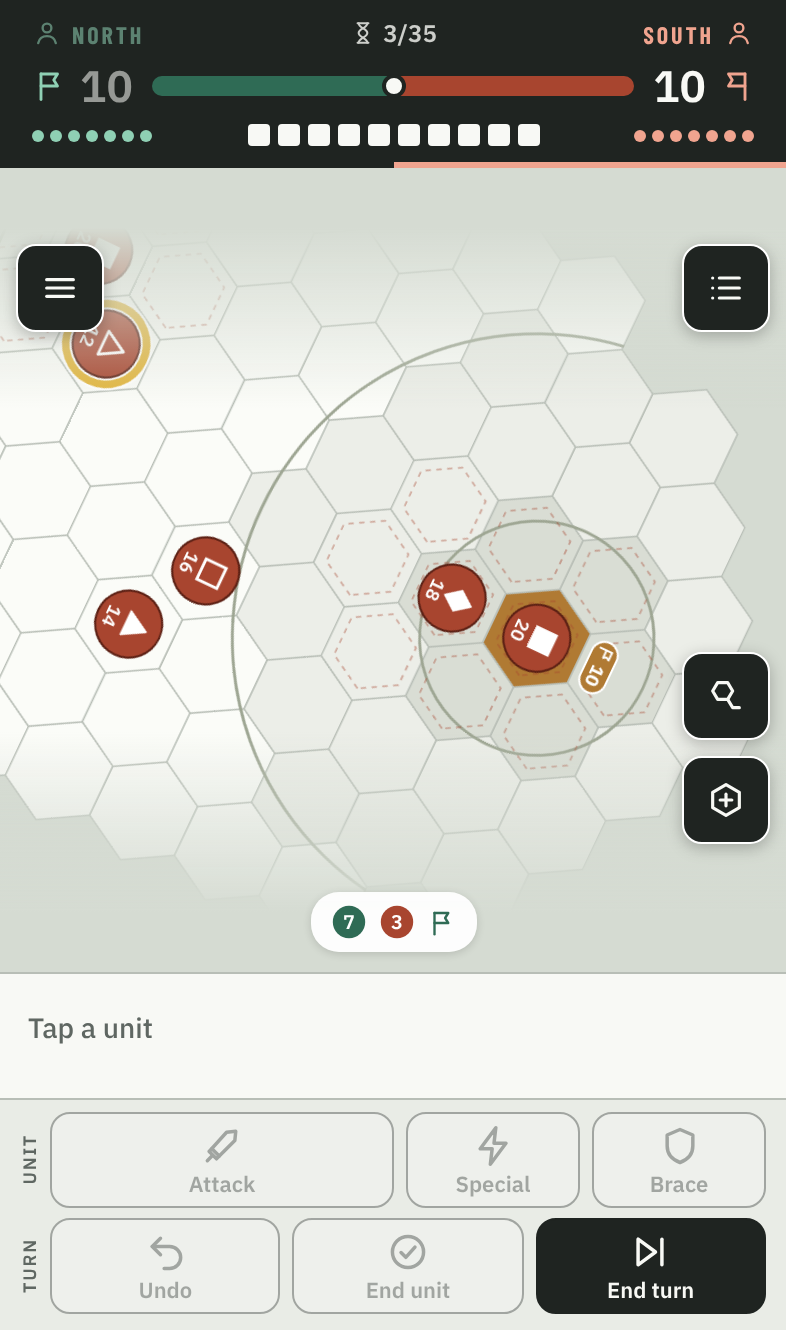
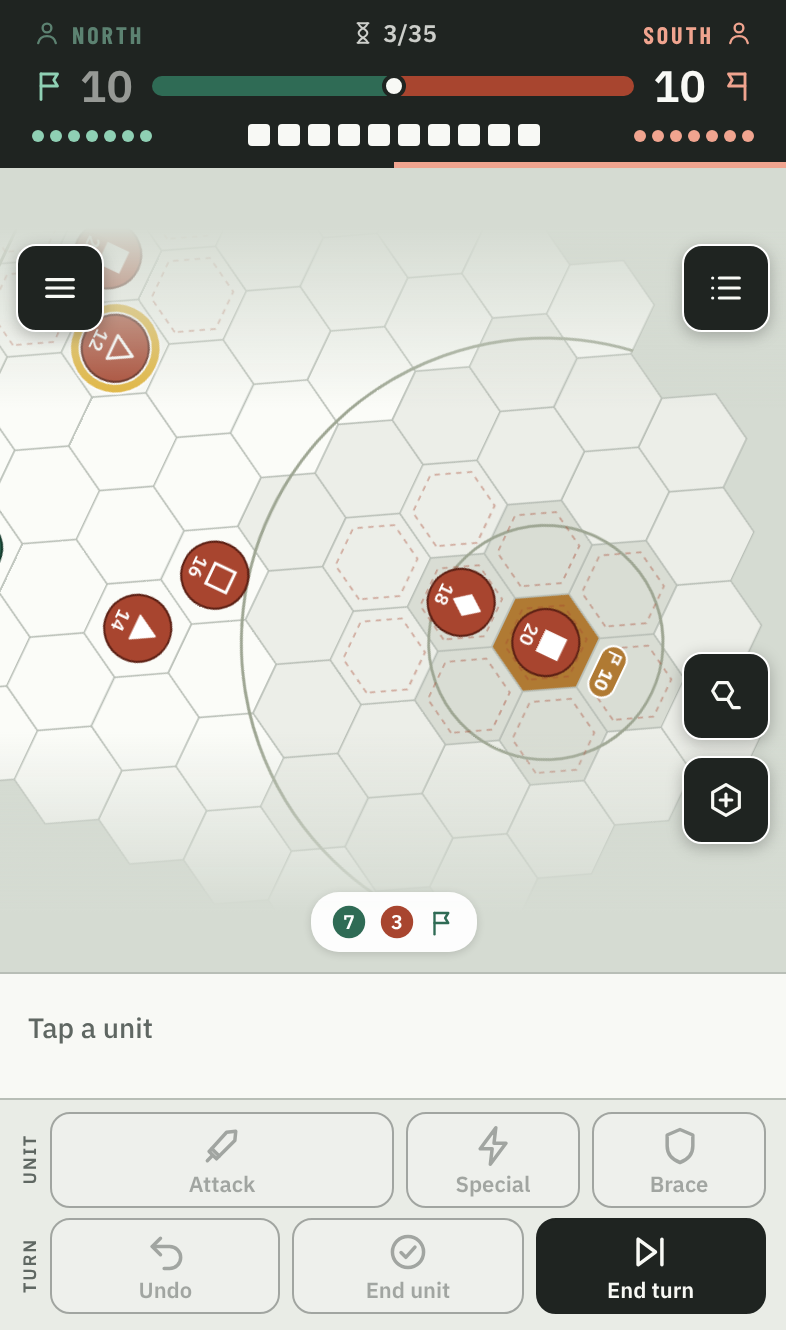
Brief 018 second review: zoom in to 100 px, desktop match log panel, more checks
Close zoom is 100 px hexes on every format. On desktop the match log is a panel on
the field's left (docked at 1200 px and wider with a Hide button, over the field
below that); the side column's Recent list is removed (F018-6 for a lasting design).
New checks: hot-seat South deploy view, scroll then wheel-zoom.

Claude-Session: https://claude.ai/code/session_01NQibGU52PCpshR1GvwUZXk

diff --git a/board/app.js b/board/app.js
@@ -1059,10 +1059,9 @@
   // ---------- Field zoom, gestures, hot-seat views and the turn cue (Brief 018, Approved UI v4) ----------
   /* Zoom is k, screen px per field unit (a hex is 2R = 60 units wide, so k = 1 is "close", 60 px hexes). ui.zoom null
      means "far" (fill the width on a phone, the whole field on desktop) and follows the screen size. */
-  // The Editor, 22 Nov (review of #54): "zoom in" goes nearer. Close = 1.5 × far, at least 60 px and at most 120 px
-  // hexes (7v7 on a 393 px phone: 81 px; desktop 7v7: 108 px; 13v13 on a phone: 60 px). Pinch reaches 120 px.
-  const CLOSE_X = 1.5, K_CLOSE_MIN = 60 / (2 * R), K_MAX = 120 / (2 * R);
-  const kClose = () => Math.max(K_CLOSE_MIN, Math.min(K_MAX, CLOSE_X * kFar()));
+  // The Editor, 22 Nov (second review of #54): "zoom in" goes to 100 px hexes on every format and screen. Pinch reaches 120 px.
+  const K_CLOSE = 100 / (2 * R), K_MAX = 120 / (2 * R);
+  const kClose = () => K_CLOSE;
   const viewBox = () => { const w = $("fieldwrap"); return { w: w.clientWidth, h: w.clientHeight }; };
   function kFar() {
     const v = viewBox();
@@ -2027,19 +2026,41 @@
   }
   function logHtml(st) { return `<div class="lg">${logBar(st)}<div class="lg-rows">${logRowsHtml(st)}</div></div>`; }
   /** Phone: the field area swaps for the log; the top bar, tag and action panel stay. Desktop: the Recent list. */
+  /* Desktop (the Editor, 22 Nov, review of #54; F018-6 for a lasting design): the log is a panel on the field's left.
+     1200 px and wider it sits beside the field, open unless the player collapsed it (remembered on this device);
+     narrower it starts collapsed and opens over the field. Phone (under 900 px): the field area swaps for the log. */
+  const LOG_DOCK = 1200;
+  const logDocked = () => window.innerWidth >= LOG_DOCK;
+  function logPanelOpen() { return logDocked() ? Store.local("logPanel") !== false : !!App.ui.logOverlay; }
+  function toggleLog() {
+    if (!wide()) { App.ui.logOpen = !App.ui.logOpen; renderLog(); if (App.ui.logOpen) $("logview").scrollTop = 0; else requestAnimationFrame(updateEdges); return; }
+    if (logDocked()) Store.local("logPanel", !logPanelOpen()); else App.ui.logOverlay = !App.ui.logOverlay;
+    render();
+  }
   function renderLog() {
-    const st = App.st, ui = App.ui, el = $("logview"), b = $("logbtn");
-    const on = !!ui.logOpen;   // phone and desktop (the Editor, 22 Nov: the log button on desktop too)
-    $("view-play").classList.toggle("log-open", on);
-    el.hidden = !on;
-    if (b) { const want = on ? "field" : "log"; if (b.dataset.mode !== want) { b.dataset.mode = want; b.innerHTML = ic(on ? "showField" : "list", 20); b.setAttribute("aria-label", on ? "Show field" : "Show match log"); } }
+    const st = App.st, ui = App.ui, el = $("logview"), side = $("logside"), b = $("logbtn"), vp = $("view-play");
+    const desk = wide(), on = !desk && !!ui.logOpen, panel = desk && logPanelOpen();
+    vp.classList.toggle("log-open", on);
+    vp.classList.toggle("log-docked", panel && logDocked());
+    vp.classList.toggle("log-over", panel && !logDocked());
+    el.hidden = !on; side.hidden = !panel;
+    if (b) {
+      const fieldMode = on || (panel && !logDocked()), want = fieldMode ? "field" : "log";
+      b.hidden = desk && panel && logDocked();   // docked: the panel has its own Hide button
+      if (b.dataset.mode !== want) { b.dataset.mode = want; b.innerHTML = ic(fieldMode ? "showField" : "list", 20); b.setAttribute("aria-label", fieldMode ? (desk ? "Hide match log" : "Show field") : "Show match log"); }
+    }
     if (on) el.innerHTML = logHtml(st);
+    if (panel) {
+      const old = side.querySelector(".ls-scroll"), keep = old ? old.scrollTop : 0;
+      side.innerHTML = `<button type="button" class="fbtn lg-hide" data-act="log" aria-label="Hide match log">${ic("back", 20)}</button><div class="ls-scroll">${logHtml(st)}</div>`;
+      side.querySelector(".ls-scroll").scrollTop = keep;
+    }
   }
 
   // ---------- Drawing: side column (desktop) ----------
   function renderSide() {
     const st = App.st, el = $("roster");
-    if (st.phase === "deploy") { el.innerHTML = `<h3>Units</h3><p class="note">Shown once both sides have deployed.</p>`; $("recent").innerHTML = wide() ? logHtml(st) : ""; return; }
+    if (st.phase === "deploy") { el.innerHTML = `<h3>Units</h3><p class="note">Shown once both sides have deployed.</p>`; return; }
     let h = `<h3>Units</h3><table><tbody>`;
     for (const t of ["N", "S"]) {
       h += `<tr class="teamhead" style="color:${teamColor(t)}"><td colspan="4">${esc(st.names[t])}</td></tr>`;
@@ -2050,9 +2071,7 @@
       }
     }
     el.innerHTML = h + `</tbody></table>`;
-    // Brief 018 §10.6: the same rows and dividers as the phone's match log, settings bar on top, newest turn first.
-    const rc = $("recent");
-    if (wide()) { const keep = rc.scrollTop; rc.innerHTML = logHtml(st); rc.scrollTop = keep; }
+    // The match log's rows now live in the left panel (the Editor, 22 Nov), not a Recent list here.
   }
 
   // ---------- Hint over the field ----------
@@ -2272,11 +2291,11 @@
       case "lineup-next": lineupNext(); break;
       case "cover-ok": $("cover").hidden = true; if (App.view === "play") { ui.cover = null; render(); } break;
       case "zoom": zoomStep(); break;
-      case "log": ui.logOpen = !ui.logOpen; renderLog(); if (ui.logOpen) $("logview").scrollTop = 0; else requestAnimationFrame(updateEdges); break;
+      case "log": toggleLog(); break;
       case "logrow": {
         const i = +el.dataset.i; if (!el.hasAttribute("aria-expanded")) break;
         ui.logRows = ui.logRows || {}; ui.logRows[i] = !ui.logRows[i];
-        if (App.view === "match") renderMatchView(); else { renderLog(); renderSide(); }
+        if (App.view === "match") renderMatchView(); else renderLog();
         break;
       }
       case "names": ui.names = !ui.names; Store.local("names", ui.names); renderBoard(); $("namesbtn").setAttribute("aria-pressed", ui.names ? "true" : "false"); break;
@@ -2706,7 +2725,11 @@
       const open = dy < 0;
       if (App.ui.keyOpen !== open) { App.ui.keyOpen = open; renderSheet(); }
     });
-    window.addEventListener("resize", () => { if (App.view === "play" && App.st) { renderUnitbar(); renderActions(); renderSheet(); } });   // phone ↔ desktop (Brief 025)
+    window.addEventListener("resize", () => {
+      if (App.view !== "play" || !App.st) return;
+      const dk = wide() + ":" + logDocked();
+      if (App.ui.dockKey !== dk) { App.ui.dockKey = dk; App.ui.logOverlay = false; render(); } else { renderUnitbar(); renderActions(); renderSheet(); }
+    });   // phone ↔ desktop (Brief 025)
     window.addEventListener("beforeunload", (e) => { if (App.dirty || App.brainDirty) { e.preventDefault(); e.returnValue = ""; } });
   }
 

diff --git a/board/index.html b/board/index.html
@@ -315,16 +315,24 @@ body.turned { transform: rotate(180deg); }
 #sheet.keysheet { max-height: 60%; }
 #sheet.keysheet > .key { overflow-y: auto; }
 @media (min-width: 900px) {
-  #view-play { grid-template-columns: minmax(0, 1fr) 390px; grid-template-rows: auto auto auto minmax(0, 1fr); }
-  #topbar { grid-column: 1 / 3; }
+  #view-play { grid-template-columns: auto minmax(0, 1fr) 390px; grid-template-rows: auto auto auto minmax(0, 1fr); }
+  #topbar { grid-column: 1 / 4; }
+  /* The match log panel (the Editor, 22 Nov; F018-6): docked on the field's left at 1200 px and wider, over the field below */
+  .logside { grid-column: 1; grid-row: 2 / 5; width: 360px; position: relative; overflow: hidden; background: var(--paper); border-right: 1px solid var(--line); min-height: 0; }
+  .logside[hidden] { display: none; }
+  #view-play.log-over .logside { grid-column: 2; justify-self: start; z-index: 6; box-shadow: 6px 0 18px rgba(0,0,0,.18); max-width: 100%; }
+  .logside .ls-scroll { position: absolute; inset: 0; overflow-y: auto; overscroll-behavior: contain; }
+  .logside .lg-hide { position: absolute; top: 38px; right: 8px; z-index: 3; }
+  .logside .lg-main, .logside .lg-l2 { grid-template-columns: 84px 28px minmax(0, 1fr) 34px 60px; column-gap: 6px; }
+  .logside .lg-row { padding: 10px 8px 10px 12px; }
   #topbar .tb-title, #topbar .tb-board { padding-left: max(16px, calc(50% - 360px)); padding-right: max(16px, calc(50% - 360px)); }
   #topbar .tb-rule { margin-left: max(16px, calc(50% - 360px)); margin-right: max(16px, calc(50% - 360px)); }
-  #fieldwrap { grid-column: 1; grid-row: 2 / 5; }
-  #unitbar { grid-column: 2; grid-row: 2; border-left: 1px solid var(--line); }
-  #actions { grid-column: 2; grid-row: 3; border-left: 1px solid var(--line); }
-  #side { display: flex; flex-direction: column; gap: 12px; grid-column: 2; grid-row: 4; overflow-y: auto; padding: 12px; border-left: 1px solid var(--line); border-top: 1px solid var(--line); }
+  #fieldwrap { grid-column: 2; grid-row: 2 / 5; }
+  #unitbar { grid-column: 3; grid-row: 2; border-left: 1px solid var(--line); }
+  #actions { grid-column: 3; grid-row: 3; border-left: 1px solid var(--line); }
+  #side { display: flex; flex-direction: column; gap: 12px; grid-column: 3; grid-row: 4; overflow-y: auto; padding: 12px; border-left: 1px solid var(--line); border-top: 1px solid var(--line); }
   /* Desktop (Brief 009 §7): the attack preview and the unit card sit in the right-hand column, 390 wide, over the roster. */
-  #view-play > #sheet { position: relative; left: auto; right: auto; bottom: auto; grid-column: 2; grid-row: 4; z-index: 3; max-height: none; height: 100%; min-height: 0; overflow-y: auto; border-radius: 0; border-left: 1px solid var(--line); border-top: 1px solid var(--line); box-shadow: none; }
+  #view-play > #sheet { position: relative; left: auto; right: auto; bottom: auto; grid-column: 3; grid-row: 4; z-index: 3; max-height: none; height: 100%; min-height: 0; overflow-y: auto; border-radius: 0; border-left: 1px solid var(--line); border-top: 1px solid var(--line); box-shadow: none; }
   #view-play > #sheet.preview { border-radius: 0; }
 }
 /* Approved UI v5 (Brief 025): phone fit. Everything below 900 px wide; desktop keeps Brief 017's layout. */
@@ -400,7 +408,6 @@ body.turned { transform: rotate(180deg); }
 /* Brief 018 §10: the match log (phone: in place of the field; desktop: the Recent list; Options: Match log) */
 #logview { position: absolute; inset: 0; z-index: 5; overflow-y: auto; background: var(--paper); overscroll-behavior: contain; }
 #logview[hidden] { display: none; }
-@media (min-width: 900px) { #logview .lg { max-width: 640px; margin: 0 auto; } }
 .lg { font: 500 12px/1.2 var(--body); color: var(--ink); font-variant-numeric: tabular-nums; }
 .lg-bar { position: sticky; top: 0; z-index: 2; height: 90px; background: var(--paper); border-bottom: 1px solid var(--line); padding: 33px 66px 0 14px; }
 .lg-b1 { display: flex; align-items: baseline; gap: 10px; white-space: nowrap; }
@@ -515,11 +522,11 @@ table.data td.desc { white-space: normal; color: var(--muted); font-size: 13px; 
     <div id="scrim" hidden></div>
     <section id="sheet" hidden aria-live="polite"></section>
   </div>
+  <aside id="logside" class="logside" aria-label="Match log" hidden></aside>
   <section id="unitbar"></section>
   <nav id="actions" aria-label="Actions"></nav>
   <aside id="side">
     <div class="card roster" id="roster"></div>
-    <div class="card"><h3>Recent</h3><div class="recent" id="recent"></div></div>
   </aside>
 </section>
 <section class="view" id="view-units" hidden></section>

diff --git a/board/tests/test_hotseat.js b/board/tests/test_hotseat.js
@@ -106,7 +106,7 @@ const state = () => {
   ok(Math.abs(s.hexPx - 54.1) < 1 && s.hp > 0 && s.zoomLabel === "Zoom in" && !s.zoomHidden, `7v7 far: about 54 px hexes with numbers, "Zoom in" (${s.hexPx.toFixed(1)} px, ${s.zoomLabel})`);
   await page.evaluate(() => document.getElementById("zoombtn").click()); await page.waitForTimeout(150);
   s = await page.evaluate(state);
-  ok(Math.abs(s.hexPx - 1.5 * 54.1) < 1.5 && s.zoomLabel === "Zoom out", `zoom in: 1.5 × far, about 81 px hexes, "Zoom out" (${s.hexPx.toFixed(1)})`);
+  ok(Math.abs(s.hexPx - 100) < 0.5 && s.zoomLabel === "Zoom out", `zoom in: 100 px hexes, "Zoom out" (${s.hexPx.toFixed(1)})`);
   await page.evaluate(() => document.getElementById("zoombtn").click()); await page.waitForTimeout(150);
   s = await page.evaluate(state);
   ok(Math.abs(s.hexPx - 54.1) < 1, `zoom out: back to far (${s.hexPx.toFixed(1)})`);
@@ -138,6 +138,38 @@ const state = () => {
       const sc = document.getElementById("fieldscroll"); return { top: sc.scrollTop, max: sc.scrollHeight - sc.clientHeight };
     }, human);
     ok(human === "N" ? top.top === 0 : top.top >= top.max - 2, `${human} deploys: the field opens on its own flag (scroll ${top.top} of ${top.max})`);
+  }
+
+  // Hot seat: after North deploys, South's deployment opens on South's flag (review of #54).
+  {
+    const r = await page.evaluate(async () => {
+      const G = window.GGShots, A = G.App;
+      A.setup = { format: "std7", rulesetId: G.D.PRESETS[G.D.PRESETS.length - 1].id, first: "N", seed: "DEP2", players: { N: { type: "human", name: "North", mix: "open" }, S: { type: "human", name: "South", mix: "open" } } };
+      A.picks = { N: { keeper: null, counts: { HM: 2, LM: 1, HR: 1, LR: 1, HA: 1, LA: 1 } }, S: { keeper: null, counts: { HM: 2, LM: 1, HR: 1, LR: 1, HA: 1, LA: 1 } } };
+      G.startMatch(); document.querySelector('[data-act="cover-ok"]').click();
+      await new Promise((r) => setTimeout(r, 300));
+      document.querySelector('[data-act="deploy-fill"]').click(); await new Promise((r) => setTimeout(r, 100));
+      document.querySelector('[data-act="deploy-done"]').click(); await new Promise((r) => setTimeout(r, 100));
+      document.querySelector('[data-act="cover-ok"]').click(); await new Promise((r) => setTimeout(r, 500));
+      const sc = document.getElementById("fieldscroll"), tag = document.getElementById("edgetag");
+      return { team: A.ui.cover, top: sc.scrollTop, max: sc.scrollHeight - sc.clientHeight, tag: tag.textContent, up: tag.classList.contains("up") };
+    });
+    ok(r.top >= r.max - 2, `hot seat: South's deployment opens on South's flag (scroll ${r.top} of ${r.max})`);
+    ok(/South deploys/i.test(r.tag) && !r.up, `hot seat: "SOUTH DEPLOYS" shows (${r.tag})`);
+  }
+  // Scroll, then zoom with the wheel: the hex under the pointer stays under it.
+  {
+    await go({ view: "handoff", turns: 1, bot: true }); await page.waitForTimeout(600);   // no hot-seat snap moving the view
+    const r = await page.evaluate(async () => {
+      const sc = document.getElementById("fieldscroll"); sc.scrollTop = 250;
+      const rc = sc.getBoundingClientRect(), x = rc.left + rc.width / 2, y = rc.top + rc.height / 2;
+      const at = () => { const el = document.elementFromPoint(x, y), g = el && el.closest("[data-hex]"); return g ? g.dataset.hex : null; };
+      const before = at();
+      sc.dispatchEvent(new WheelEvent("wheel", { deltaY: -200, clientX: x, clientY: y, bubbles: true, cancelable: true }));
+      await new Promise((r) => setTimeout(r, 100));
+      return { before, after: at(), top: sc.scrollTop };
+    });
+    ok(r.before && r.before === r.after && r.top > 100, `scroll then wheel-zoom keeps the hex under the pointer (${r.before} → ${r.after}, scroll ${r.top})`);
   }
 
   // ---- Gestures ----

diff --git a/CHANGELOG.md b/CHANGELOG.md
@@ -29,19 +29,19 @@ Rule set: none changed (v3.9 stays the new-game default). Default brain: Brain 5
 **What a player will notice**
 - **Turn cue (hot seat only):** a tag hangs from the scoreboard on the mover's side, "NORTH PLAYS" / "SOUTH PLAYS" (and "… DEPLOYS"), for the whole turn; it slides away when the turn passes.
 - **Hot-seat view** (Settings step and the in-match Options menu): **Handoff** (as before), **Flip** (the field spins so the mover's flag is at the bottom), **Face to Face** (phones only: phone flat between you, the screen turns to face whoever is playing; the field never moves).
-- **Field zoom on every format:** pinch, or the new zoom button under hex names (close = 1.5 × far, 60 to 120 px hexes: 81 px on a 393 px phone at 7v7, 108 px on desktop; far = as before). Drag to pan. A touch that moves more than 8 px never taps; a second finger cancels a drag. Desktop: mouse wheel, drag, + and −.
+- **Field zoom on every format:** pinch, or the new zoom button under hex names (close = 100 px hexes on every format; far = as before; pinch to 120 px). Drag to pan. A touch that moves more than 8 px never taps; a second finger cancels a drag. Desktop: mouse wheel, drag, + and −.
 - **Zoomed out (hexes under 50 px), tokens show icons only**; tap a unit for its HP. 9v9 and 13v13 can be zoomed to fit or to 60 px hexes.
 - **Hex names sit in the middle of the hex**; the hex-names button moved to the right edge, above zoom.
-- **Match log:** a new top-right button on the field (phone and desktop) swaps the field for the log (newest turn on top, each turn in play order, one row per action with Stamina, damage, HP before → after, OUT, Parry, set spear, holder and flag; tap an attack to see its sum). On desktop the Recent list and Options → Match log show the same rows.
+- **Match log:** on a phone, a new top-right button swaps the field for the log; on desktop it is a panel on the field's left (beside the field at 1200 px and wider, with a Hide button; over the field on narrower windows) (newest turn on top, each turn in play order, one row per action with Stamina, damage, HP before → after, OUT, Parry, set spear, holder and flag; tap an attack to see its sum). Options → Match log shows the same rows; the side column's Recent list is gone.
 
 **Under the hood**
 - `engine.js`: a display-only list `st.events` beside `st.log`, one entry per log line, with the facts the log rows need. Not enumerable, so it is never copied, saved, hashed or read by the rules, brains or lab. `st.log` is word for word unchanged; every preset and brain replays with identical hashes.
 - `app.js`, `index.html`, `skin.js`: zoom, gestures, the three views, the tag (text colour picked by contrast in the skin), the log. The view is kept on the match (`match.view`), never in the options the engine reads.
 - New checks `test_events.js` and `test_hotseat.js` (headless browser); `sims/shots_018.js` makes the screenshots.
 
-**Fixed in review (the Editor, 22 Nov):** the field could jump to North's end (deployment always opened on North; zooming after scrolling lost your place; some turns jumped to the top): the field's position inside its scroll area was read as "not a number". The tag now stays all turn; "zoom in" goes nearer; the log button is on desktop too.
+**Fixed in review (the Editor, 22 Nov):** the field could jump to North's end (deployment always opened on North; zooming after scrolling lost your place; some turns jumped to the top): the field's position inside its scroll area was read as "not a number". The tag now stays all turn; "zoom in" goes to 100 px hexes; the desktop log is a left-side panel (F018-6).
 
-**Flags opened:** F018-1 to F018-5 (`flags/018.md`; F018-3 closed in review).
+**Flags opened:** F018-1 to F018-5 (`flags/018.md`; F018-3 closed in review; F018-6 opened in review).
 
 ## No game version — Brief 027, tooling: lab plumbing, fewer jobs (22 Nov 2026)
 Nothing in the game changes (`board/` untouched). Every game the lab plays is the same.

diff --git a/briefs/018-turn-cue-zoom.md b/briefs/018-turn-cue-zoom.md
@@ -224,8 +224,9 @@ Play a few turns on a phone in each hot-seat view: check the tag appears on each
   - §10.8 `st.events` in `engine.js`: one entry per log line, filled in for each action from a before/after snapshot plus what the action noted. Not enumerable: never in JSON, a match record, a clone or a look-ahead copy; a failed action leaves no entries.
 - **Review fixes (the Editor, 22 Nov, after testing #54):**
   1. Deployment always opened on North's flag; 2. zooming after scrolling lost the place; 4. some turns jumped to the top of the field. One cause: an `<svg>` has no `offsetTop`/`offsetLeft`, so every scroll-to-a-hex worked out "not a number" and the browser went to the top (North's end). Fixed (`svgOff()` reads the drawing's margins); `test_hotseat.js` now checks that each side's deployment opens on its own flag and that scroll-then-zoom keeps the hex in the middle of the view.
-  3. Zoom in goes nearer: close = 1.5 × far, at least 60 and at most 120 px hexes (393 px phone, 7v7: 81 px; desktop 7v7: 108 px; 13v13 phone: 60 px). Pinch maximum raised to 120 px. This replaces §6's fixed 60 px close and 90 px maximum.
-  5. The log button now shows on desktop too (it swaps the field for the log, like the phone); the Recent list in the side column still has the same rows, below Units.
+  3. Zoom in goes nearer: close = 100 px hexes on every format and screen (second review; the first try was 1.5 × far). Pinch maximum 120 px. This replaces §6's 60 px close and 90 px maximum.
+  5. Desktop match log (second review): a 360 px panel on the field's left, beside the field at 1200 px and wider with a Hide button (remembered on this device); below 1200 px it starts collapsed and the field's log button opens it over the field. The side column's Recent list is removed. A stopgap until the UI chat designs it (F018-6).
+  - Second review, also: the play link had not been republished after the first fixes (GitHub queued it), so the Editor's second test ran the earlier build; "South's deployment shows North's flag" (hot seat) and "the tag goes on the first click" were already fixed. New checks for both, and for scroll-then-wheel-zoom.
   6. The tag stays up for the whole turn and goes when the turn passes (replaces §2's "goes on the first touch").
 - **Anything beyond the brief, and why:** zoom-out on desktop goes to the whole field when far is nearer than close (otherwise the button did nothing there; F018-2). A drag on your own unit now starts at 8 px, not 12, so a press that moves more than 8 px is never a tap (§6).
 - **Checks run and results (paste regression hashes):** every README check run in this session. test_rules, v1, v3, v31, v33, v34, fields (127), route (59), stamina (833), reasons (19), version (22), ui (114), rng (20), replay (386 checks, 0 mismatches), phone (64/64), new test_hotseat (31/31), new test_events (1,307 checks at 2 games per set). Also test_v32 (40), v35 (6), v36 (4), v37 (2), kitd (6), brain5/6/7 (2), watch (18), invariants (30 games, 0 problems), lab self_test, test_stall, test_lead, test_capacity, status test_board, board_check (10 games, 0 different). **Replay hashes:** `node tests/regress_engine.js <board> 2 all` on the board before this build (main at v3.14.01, Build 19) and after: all **143 lines identical** (every preset, newest included, with every brain). Brain 5's lines:

diff --git a/flags/018.md b/flags/018.md
@@ -9,3 +9,4 @@ Same columns and status words as `FLAGS.md`.
 | F018-3 | 22 Nov | Code | §6 hides the zoom button when far and close are "within 10% of each other". On the Editor's 393 px phone, 7v7 far is 54.1 px against close's 60 px: 9.8% apart measured against close, 10.9% against far. Built as: measured against the smaller, so the button shows on 7v7 (the hands-on check uses it there) | CLOSED | Superseded in review (the Editor, 22 Nov: zoom in must go nearer): close is now 1.5 × far (60 to 120 px), so far and close are never within 10% except at the limits |
 | F018-4 | 22 Nov | Code | §9 (scale the flag pill by hex height ÷ 46.26): 017's pill is drawn in field units, like the hexes, so it already scales with the hex on every format and zoom, and is exactly 017's pill at 7v7 far. No change was needed; icons-only (§8) drops its number below 50 px | ASK | The Editor: accept (nothing to build) |
 | F018-5 | 22 Nov | Code | §10.5 has no row for a swap. Built as: one move row for the unit that started the swap, its friend's token and hex in the target column, 1 hex moved | ASK | The UI chat: accept, or draw a swap row |
+| F018-6 | 22 Nov | Code | Desktop match log, built as the Editor asked on 22 Nov (review of #54) as a stopgap: a 360 px panel on the field's left, open beside the field at 1200 px and wider with a Hide button (remembered on this device), collapsed below 1200 px and opening over the field from the field's log button. It replaces §10.6's rows in the side column's Recent list (removed). Needs a lasting design | ASK | The UI chat, with the Editor: design the desktop match log for good |
